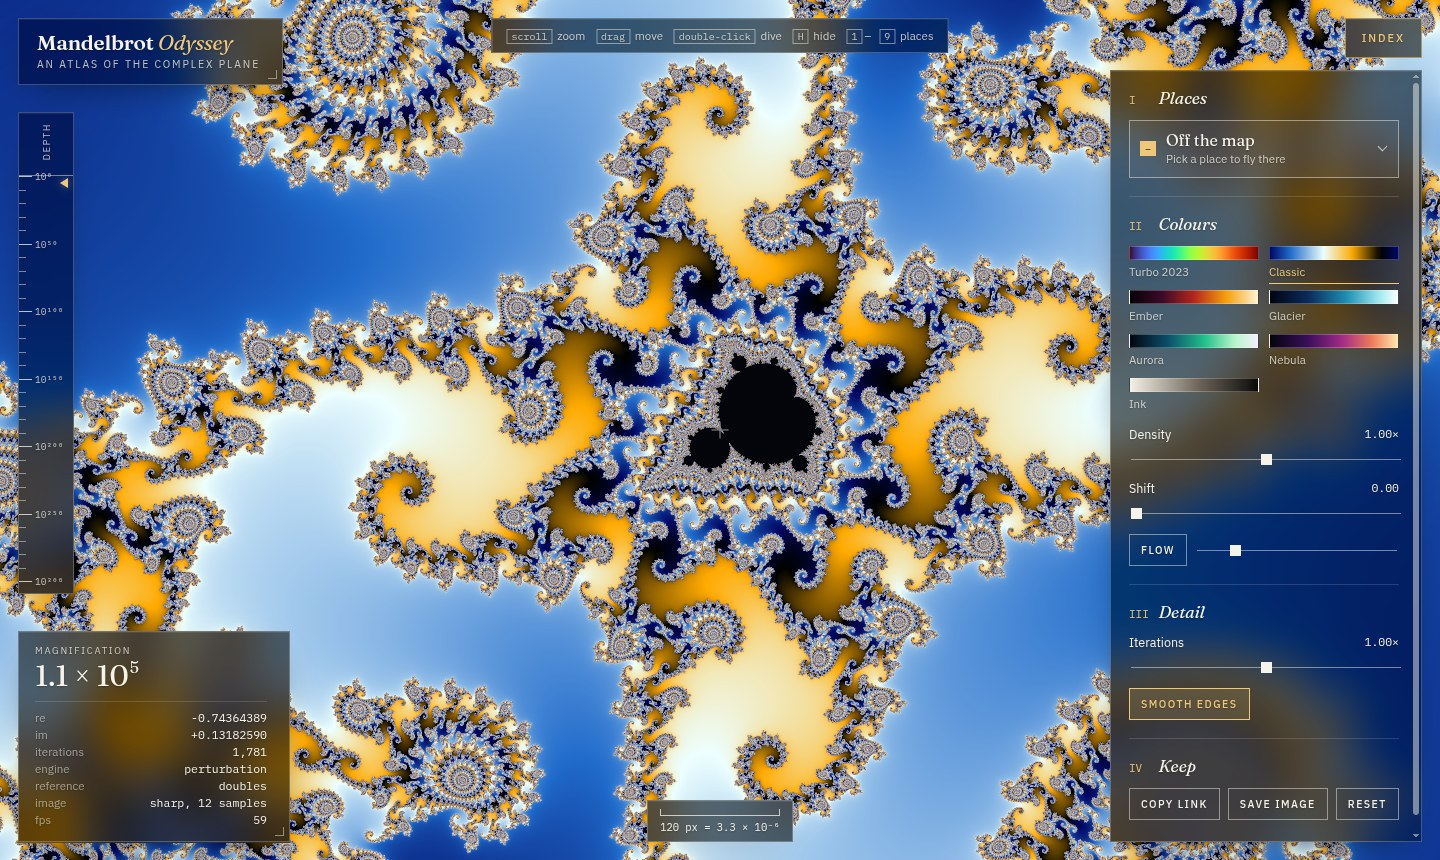
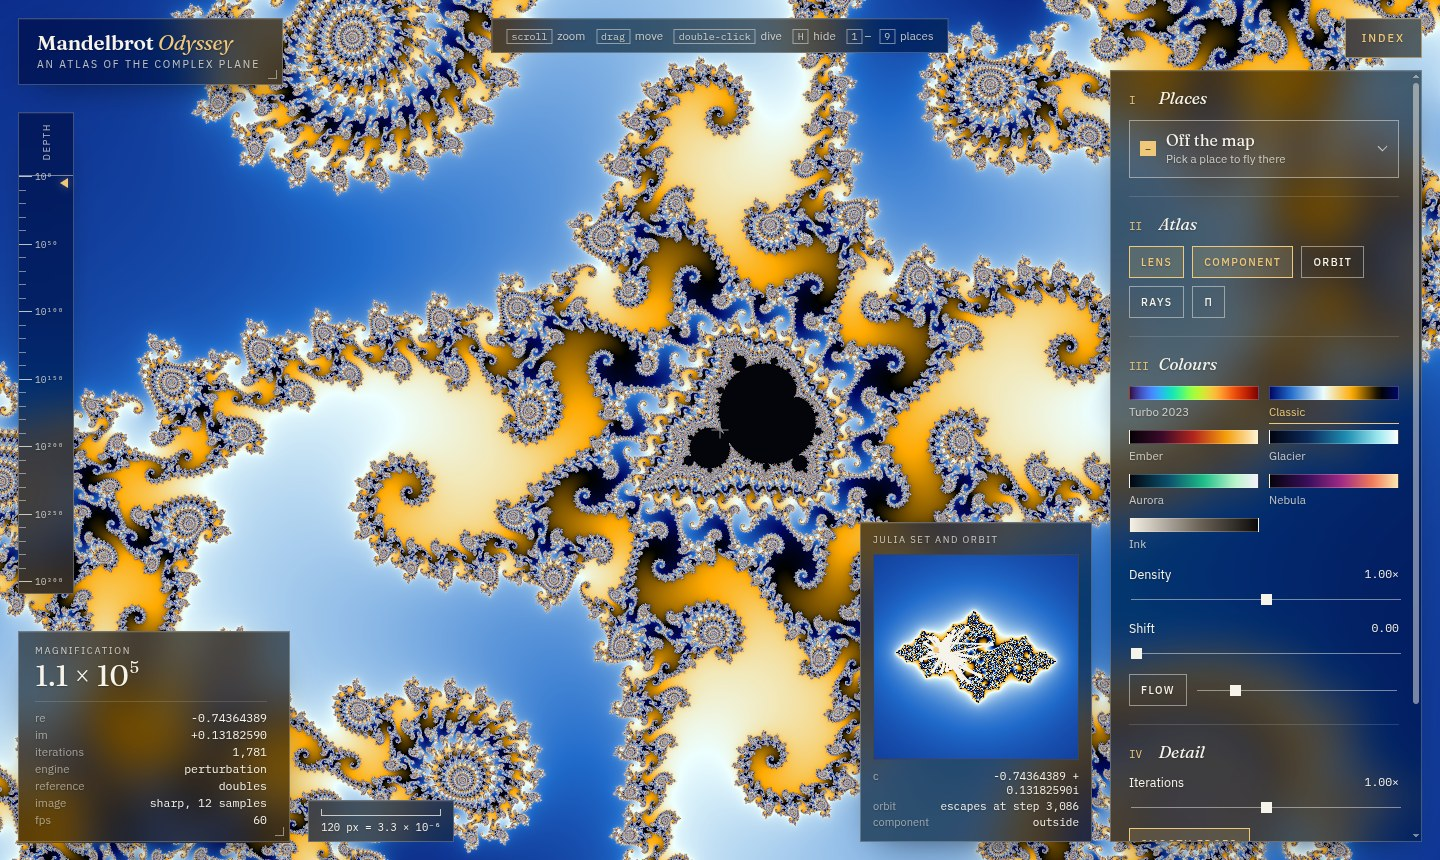
add: the atlas in the readme, new screenshots

diff --git a/README.md b/README.md
@@ -1,6 +1,6 @@
 # Mandelbrot Odyssey
 
-A real-time journey into the Mandelbrot set, computed live on your graphics card. Scroll into a spiral, fly to the famous places of the set, change the colours as you go, and dive to a magnification of 10³⁰⁰, smoothly.
+A real-time journey into the Mandelbrot set, computed live on your graphics card. Scroll into a spiral, fly to the famous places of the set, dive to a magnification of 10³⁰⁰, smoothly, and read the mathematics of what you see in a live atlas: Julia sets, orbits, periods, external rays, and π.
 
 ## Installation
 
@@ -56,7 +56,15 @@ npm start
 
 ![The whole Mandelbrot set, with the index of places and colours](docs/screenshots/home.jpg)
 
-*The whole set. On the right, the index: places, palettes, detail. On the left, the depth gauge, from 10⁰ to 10³⁰⁰, and the readout of the engine at work.*
+*The whole set. On the right, the index: places, atlas, palettes, detail. On the left, the depth gauge, from 10⁰ to 10³⁰⁰, and the readout of the engine at work. At the bottom, the lens: the Julia set of the point under the pointer, here c = −3/4.*
+
+![The atlas: the Julia set of the period-3 bulb, its external rays and Lavaurs' diagram](docs/screenshots/atlas.jpg)
+
+*The atlas. The pointer is in the bulb of period 3 at the top: the lens shows its Julia set, Douady's rabbit, and the orbit of 0 settling on a cycle of 3 points. The ring marks the component, and the rays 1/7 and 2/7, which land at its root, are lit, along with their chord in Lavaurs' diagram.*
+
+![The π experiment in the neck of seahorse valley](docs/screenshots/pi.jpg)
+
+*π in the Mandelbrot set. At c = −3/4 + iε, the steps before escape times ε tend to π, digit after digit, as the table on the right shows.*
 
 ![The index of places, open](docs/screenshots/places.jpg)
 
@@ -87,6 +95,7 @@ npm start
 
 - **Zoom anywhere, as deep as 10³⁰⁰.** Scroll or pinch to zoom around the pointer, drag to move, and let go to glide. Double-click dives four times closer, <kbd>Shift</kbd> + double-click goes back. The point under the pointer stays exactly where it is all along the zoom.
 - **Fly to famous places.** Seahorse valley, a double spiral, elephant valley, a minibrot copy of the whole set, the dendrite at c = i, the end of the original 2023 script at 10¹⁸, and the bottom of the map at 10²⁹⁰. A flight to a place out of sight first pulls back until it is in view, then dives, faster the deeper it goes: 10¹⁸ in about five seconds, 10²⁹⁰ in under twenty.
+- **Read the atlas.** Move the pointer and the lens shows the Julia set of that point, with the orbit of 0 drawn on it: connected inside the set, dust outside. The component under the pointer is ringed, with its period and size, found by Newton's method. Turn on the external rays to see the rays of every component up to period 6, labelled by their angles, and Lavaurs' diagram, the map of how they pair: pick a chord and the explorer flies to its component. The π experiment shows why π appears in seahorse valley and at the cusp.
 - **Colour it.** Seven palettes, including *Turbo 2023*, the colours of the original script: 150 steps of Turbo, up and back down. Change the density and the shift, or let the colours flow. Colours change instantly, without recomputing the image.
 - **Always smooth.** While you move, the image is computed at a lower resolution that fits in the frame budget. When you stop, it sharpens, then smooths its edges with up to 12 samples per pixel.
 - **Share it.** The address always holds the current view: copy the link and anyone opens the same place, with the same colours. Save the image as a PNG.
@@ -121,6 +130,8 @@ Graphics cards compute in 32-bit floats, which blur the image past a magnificati
 
 **Speed.** On an integrated AMD Radeon (Ryzen 7 5825U), measured in Chrome: during flights to 10⁵, 10¹⁸ and 10²⁹⁰ and back, one frame in about 3800 took longer than a screen refresh while the view was moving. A full image at 10²⁹⁰ takes 4 ms to compute with the approximation, 76 ms without. The renderer learns what one iteration costs on your GPU and sizes every frame to fit the screen refresh; while the view rests, it tries a little more work each frame to sharpen sooner.
 
+**The atlas.** The lens draws the Julia set of c on a second, small WebGL canvas. The period of a point inside the set is that of the cycle its orbit settles on; outside, that of the step where its orbit came nearest to 0. Newton's method on z_p(c) = 0 then finds the nucleus of the component, and a classic estimate its size. External rays are traced inwards by Newton's method on z_n(c) = R^(2^(n−1−m)) e^(2πi 2^(n−1) θ), level after level, in a worker; rays that land at a parabolic root approach it slowly, so each one is followed for 300 doublings. Lavaurs' algorithm pairs the angles k / (2^p − 1) of each period without crossing the chords already drawn, and finds exactly the 1, 3, 6, 15 and 27 components of periods 2 to 6.
+
 **Depth.** The limit is a magnification of about 10³⁰⁰, where the size of a pixel stops being an ordinary double. One case is still slow: deep inside a minibrot of small period, every pixel runs all its iterations, and no approximation holds across the returns of its orbit to zero, so the image sharpens in seconds rather than at once.
 
 ```
@@ -129,6 +140,8 @@ src/math/mandelbrot.ts   iteration, reference orbits in doubles and in fixed poi
 src/math/deep.ts         the shader's perturbation in 32-bit floats, with offsets that carry an exponent
 src/math/bla.ts          the table of bilinear approximations
 src/math/view.ts         view, zoom around a point, flights
+src/math/atlas.ts        orbits, periods, nuclei, sizes, external rays, Lavaurs' diagram, π (tested)
+src/atlas/               the lens, the drawings over the image, Lavaurs' diagram, the atlas worker
 src/render/shaders.ts    the same iteration in GLSL, colouring, display
 src/render/reference.ts  which reference to draw with, and when to ask for a new one
 src/render/orbit-worker.ts  deep orbits and their tables, off the page
@@ -153,7 +166,7 @@ The site runs locally. `.github/workflows/ci.yml` runs the tests and the build o
 
 - [x] **Phase 1.** Real-time explorer: smooth navigation, perturbation to 10¹², palettes, places, shared links, image export.
 - [x] **Phase 2.** Deep zoom to 10³⁰⁰: arbitrary-precision reference in a worker, offsets that carry their own exponent, bilinear approximation, the 2023 dive to 10¹⁸.
-- [ ] **Phase 3.** Atlas: periods of the bulbs, live orbits, Julia sets under the pointer, external rays, π in seahorse valley.
+- [x] **Phase 3.** Atlas: Julia sets and orbits under the pointer, periods and sizes of components, external rays, Lavaurs' diagram, π in seahorse valley.
 - [ ] **Phase 4.** Odyssey: an interactive story in eight chapters, driven by the live explorer.
 - [ ] **Phase 5.** Senses: orbits as sound, an endless automatic dive, video export.
 - [ ] **Phase 6.** Buddhabrot, 3D relief, other fractals.
@@ -162,4 +175,5 @@ The site runs locally. `.github/workflows/ci.yml` runs the tests and the build o
 
 - The Turbo colormap is by Google (Apache-2.0), read from OpenCV's `COLORMAP_TURBO`.
 - Perturbation for deep zoom was introduced by K. I. Martin. Rebasing and the bilinear approximation were introduced by Zhuoran on Fractal Forums. The continuous count follows Inigo Quilez's article on smooth iteration.
+- π in seahorse valley was found by Dave Boll in 1991. Lavaurs' diagram and its algorithm are due to Pierre Lavaurs (1986). Tracing external rays by Newton's method follows Tomoki Kawahira's algorithm.
 - The original 2023 script, kept in [`legacy/`](legacy/), rendered this zoom one image at a time with 80-bit arithmetic.
